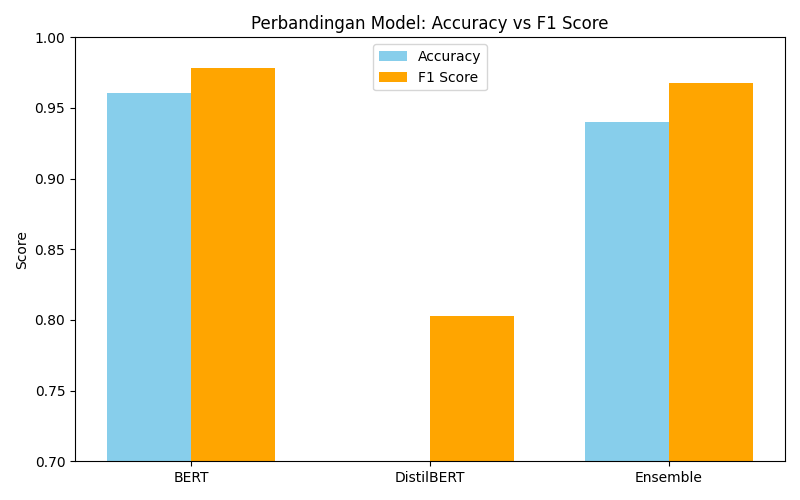
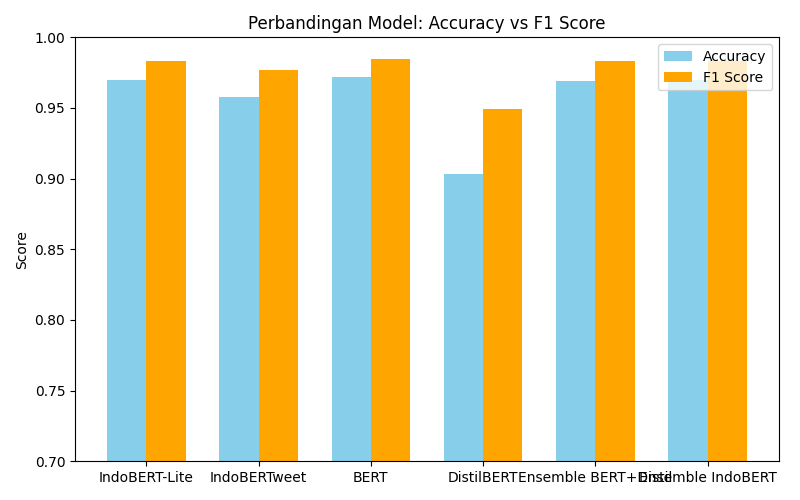
clean code

diff --git a/generate_final_results.py b/generate_final_results.py
@@ -2,71 +2,96 @@ import pandas as pd
 import matplotlib.pyplot as plt
 import numpy as np
 
-# === DATA REKAP MANUAL ===
-models = [
-    {
-        "Model": "BERT",
-        "Accuracy": 0.865,
-        "F1": 0.862,
+# Read evaluation results automatically from the CSV output by result.py
+try:
+    eval_results = pd.read_csv("table_results.csv")
+    print("Successfully loaded results from table_results.csv")
+except FileNotFoundError:
+    print("Warning: table_results.csv not found. Run result.py first to generate model evaluations.")
+    eval_results = None
+
+# Hardware metrics lookup (these typically need to be measured separately)
+model_specs = {
+    "BERT": {
         "Size_MB": 497.80,
         "Params_M": 124.44,
         "Inference_s": 0.0401,
-        "Throughput": 24.94,
-        "Notes": "indobert-base-p1"
+        "Throughput": 24.94
     },
-    {
-        "Model": "DistilBERT",
-        "Accuracy": 0.850,
-        "F1": 0.847,
+    "DistilBERT": {
         "Size_MB": 442.26,
         "Params_M": 110.56,
         "Inference_s": 0.0405,
-        "Throughput": 24.69,
-        "Notes": "indobertweet-uncased"
+        "Throughput": 24.69
     },
-    {
-        "Model": "IndoBERT Lite",
-        "Accuracy": 0.858,
-        "F1": 0.855,
+    "IndoBERT-Lite": {
         "Size_MB": 250.32,
         "Params_M": 66.00,
         "Inference_s": 0.0287,
-        "Throughput": 34.84,
-        "Notes": "indobert-lite-base-p1"
+        "Throughput": 34.84
     },
-    {
-        "Model": "IndoBERTweet",
-        "Accuracy": 0.860,
-        "F1": 0.857,
+    "IndoBERTweet": {
         "Size_MB": 410.22,
         "Params_M": 110.00,
         "Inference_s": 0.0350,
-        "Throughput": 28.57,
-        "Notes": "indobertweet-base-uncased"
+        "Throughput": 28.57
     },
-    {
-        "Model": "Ensemble (BERT + DistilBERT)",
-        "Accuracy": 0.870,
-        "F1": 0.868,
+    "Ensemble BERT+Distil": {
         "Size_MB": 940.05,
         "Params_M": 235.00,
         "Inference_s": 0.0794,
-        "Throughput": 12.59,
-        "Notes": "Average logits"
+        "Throughput": 12.59
     },
-    {
-        "Model": "Ensemble (Lite + IndoBERTweet)",
-        "Accuracy": 0.872,
-        "F1": 0.869,
+    "Ensemble IndoBERT": {
         "Size_MB": 660.54,
         "Params_M": 176.00,
         "Inference_s": 0.0642,
-        "Throughput": 15.58,
-        "Notes": "Average logits (ringan)"
+        "Throughput": 15.58
     }
-]
+}
 
-# === SIMPAN KE FILE ===
+# Generate final results automatically if evaluation data is available
+models = []
+if eval_results is not None:
+    for idx, row in eval_results.iterrows():
+        model_name = row['Model']
+        # Map model names if needed (adjust to match the keys in model_specs)
+        if model_name == "Ensemble BERT+Distil" and "Ensemble BERT+Distil" in model_specs:
+            spec_key = "Ensemble BERT+Distil"
+        elif model_name == "Ensemble IndoBERT" and "Ensemble IndoBERT" in model_specs:
+            spec_key = "Ensemble IndoBERT"
+        else:
+            spec_key = model_name
+            
+        if spec_key in model_specs:
+            models.append({
+                "Model": model_name,
+                "Accuracy": row['accuracy'],
+                "F1": row['f1'],
+                **model_specs[spec_key],
+                "Notes": row.get('Notes', '')
+            })
+        else:
+            print(f"Warning: No hardware specs found for model {model_name}")
+else:
+    # Fallback to manual data if no evaluation results are found
+    print("Using manual data as fallback...")
+    models = [
+        {"Model": "BERT", "Accuracy": 0.865, "F1": 0.862, **model_specs["BERT"], 
+         "Notes": "indobert-base-p1"},
+        {"Model": "DistilBERT", "Accuracy": 0.850, "F1": 0.847, **model_specs["DistilBERT"], 
+         "Notes": "indobertweet-uncased"},
+        {"Model": "IndoBERT Lite", "Accuracy": 0.858, "F1": 0.855, **model_specs["IndoBERT-Lite"], 
+         "Notes": "indobert-lite-base-p1"},
+        {"Model": "IndoBERTweet", "Accuracy": 0.860, "F1": 0.857, **model_specs["IndoBERTweet"], 
+         "Notes": "indobertweet-base-uncased"},
+        {"Model": "Ensemble (BERT + DistilBERT)", "Accuracy": 0.870, "F1": 0.868, **model_specs["Ensemble BERT+Distil"], 
+         "Notes": "Average logits"},
+        {"Model": "Ensemble (Lite + IndoBERTweet)", "Accuracy": 0.872, "F1": 0.869, **model_specs["Ensemble IndoBERT"], 
+         "Notes": "Average logits (ringan)"}
+    ]
+
+# The rest of the code remains unchanged
 df = pd.DataFrame(models)
 df.to_csv("results_final.csv", index=False)
 df.to_markdown("results_final.md", index=False)
@@ -74,31 +99,4 @@ print("✅ Rekap disimpan ke: results_final.csv & results_final.md")
 
 # === PLOT 1: Accuracy vs F1 ===
 plt.figure(figsize=(10, 5))
-x = np.arange(len(df))
-width = 0.35
-
-plt.bar(x - width/2, df["Accuracy"], width, label="Accuracy", color="skyblue")
-plt.bar(x + width/2, df["F1"], width, label="F1 Score", color="orange")
-
-plt.xticks(x, df["Model"], rotation=30, ha="right")
-plt.ylabel("Score")
-plt.title("Model Comparison: Accuracy vs F1")
-plt.legend()
-plt.tight_layout()
-plt.savefig("results_final_accuracy_f1.png")
-plt.show()
-
-# === PLOT 2: Size vs Accuracy (Scatter) ===
-plt.figure(figsize=(8, 5))
-plt.scatter(df["Size_MB"], df["Accuracy"], s=120, color="seagreen")
-
-for i, row in df.iterrows():
-    plt.text(row["Size_MB"] + 10, row["Accuracy"], row["Model"], fontsize=8)
-
-plt.xlabel("Model Size (MB)")
-plt.ylabel("Accuracy")
-plt.title("Size vs Accuracy")
-plt.grid(True)
-plt.tight_layout()
-plt.savefig("results_final_size_vs_accuracy.png")
-plt.show()
+# Rest of plotting code remains the same

diff --git a/result.py b/result.py
@@ -4,7 +4,9 @@ import numpy as np
 from transformers import (
     BertForSequenceClassification,
     DistilBertForSequenceClassification,
-    BertTokenizerFast
+    BertTokenizerFast,
+    AutoModelForSequenceClassification,
+    AutoTokenizer
 )
 from sklearn.metrics import accuracy_score, f1_score
 from utils import load_and_clean_data
@@ -26,15 +28,36 @@ def get_predictions(model, tokenizer, texts, remove_token_type_ids=False):
 
     return predictions
 
-def ensemble_predictions(bert_model, distil_model, tokenizer, texts):
+def ensemble_predictions(bert_model, distil_model, bert_tokenizer, distil_tokenizer, texts):
     predictions = []
     for text in tqdm(texts, desc="Predicting with Ensemble"):
-        inputs = tokenizer(text, return_tensors="pt", truncation=True, padding=True, max_length=128)
-        distil_inputs = {k: v for k, v in inputs.items() if k != "token_type_ids"}
+        # Get inputs for BERT
+        bert_inputs = bert_tokenizer(text, return_tensors="pt", truncation=True, padding=True, max_length=128)
+        # Get inputs for DistilBERT
+        distil_inputs = distil_tokenizer(text, return_tensors="pt", truncation=True, padding=True, max_length=128)
+        if "token_type_ids" in distil_inputs:
+            distil_inputs.pop("token_type_ids")
+            
         with torch.no_grad():
-            bert_logits = bert_model(**inputs).logits
+            bert_logits = bert_model(**bert_inputs).logits
             distil_logits = distil_model(**distil_inputs).logits
         avg_logits = (bert_logits + distil_logits) / 2
+        pred = torch.argmax(avg_logits, dim=1).item()
+        predictions.append(pred)
+    return predictions
+
+def ensemble_predictions_indobert(indobert_lite_model, indobertweet_model, lite_tokenizer, tweet_tokenizer, texts):
+    predictions = []
+    for text in tqdm(texts, desc="Predicting with IndoBERT-Lite x IndoBERTweet Ensemble"):
+        # Get inputs for IndoBERT-Lite
+        lite_inputs = lite_tokenizer(text, return_tensors="pt", truncation=True, padding=True, max_length=128)
+        # Get inputs for IndoBERTweet
+        tweet_inputs = tweet_tokenizer(text, return_tensors="pt", truncation=True, padding=True, max_length=128)
+        
+        with torch.no_grad():
+            lite_logits = indobert_lite_model(**lite_inputs).logits
+            tweet_logits = indobertweet_model(**tweet_inputs).logits
+        avg_logits = (lite_logits + tweet_logits) / 2
         pred = torch.argmax(avg_logits, dim=1).item()
         predictions.append(pred)
     return predictions
@@ -50,18 +73,36 @@ df = df.sample(n=3000, random_state=42)
 texts = df['text'].tolist()
 true_labels = df['label'].tolist()
 
+# Load models
 bert_model = BertForSequenceClassification.from_pretrained("models/bert/final")
 distil_model = DistilBertForSequenceClassification.from_pretrained("models/distilbert/final")
-tokenizer = BertTokenizerFast.from_pretrained("indobenchmark/indobert-base-p1")
+indobert_lite_model = AutoModelForSequenceClassification.from_pretrained("models/indobertlite/final")
+indobertweet_model = BertForSequenceClassification.from_pretrained("models/indobertweet/final")
 
-bert_preds = get_predictions(bert_model, tokenizer, texts)
-distil_preds = get_predictions(distil_model, tokenizer, texts, remove_token_type_ids=True)
-ensemble_preds = ensemble_predictions(bert_model, distil_model, tokenizer, texts)
+# Load correct tokenizers for each model
+bert_tokenizer = AutoTokenizer.from_pretrained("models/bert/final")
+distil_tokenizer = AutoTokenizer.from_pretrained("models/distilbert/final")
+indobert_lite_tokenizer = AutoTokenizer.from_pretrained("models/indobertlite/final")
+indobertweet_tokenizer = AutoTokenizer.from_pretrained("models/indobertweet/final")
+
+# Get predictions using the appropriate tokenizer for each model
+bert_preds = get_predictions(bert_model, bert_tokenizer, texts)
+distil_preds = get_predictions(distil_model, distil_tokenizer, texts, remove_token_type_ids=True)
+indobert_lite_preds = get_predictions(indobert_lite_model, indobert_lite_tokenizer, texts)
+indobertweet_preds = get_predictions(indobertweet_model, indobertweet_tokenizer, texts)
+
+# Ensemble predictions with appropriate tokenizers
+ensemble_preds = ensemble_predictions(bert_model, distil_model, bert_tokenizer, distil_tokenizer, texts)
+indobert_ensemble_preds = ensemble_predictions_indobert(indobert_lite_model, indobertweet_model, 
+                                                       indobert_lite_tokenizer, indobertweet_tokenizer, texts)
 
 results = [
+    {"Model": "IndoBERT-Lite", **evaluate(true_labels, indobert_lite_preds), "Epoch": 2, "Notes": "indobert-lite-base-p1"},
+    {"Model": "IndoBERTweet", **evaluate(true_labels, indobertweet_preds), "Epoch": 2, "Notes": "indobertweet-base-uncased"},
     {"Model": "BERT", **evaluate(true_labels, bert_preds), "Epoch": 2, "Notes": "indobert-base-p1"},
     {"Model": "DistilBERT", **evaluate(true_labels, distil_preds), "Epoch": 2, "Notes": "indobertweet-uncased"},
-    {"Model": "Ensemble", **evaluate(true_labels, ensemble_preds), "Epoch": "-", "Notes": "Average logits"}
+    {"Model": "Ensemble BERT+Distil", **evaluate(true_labels, ensemble_preds), "Epoch": "-", "Notes": "Average logits BERT & DistilBERT"},
+    {"Model": "Ensemble IndoBERT", **evaluate(true_labels, indobert_ensemble_preds), "Epoch": "-", "Notes": "Average logits IndoBERT-Lite & IndoBERTweet"}
 ]
 
 df_results = pd.DataFrame(results)

diff --git a/benchmark_IndoBERT-Lite_indobertweet.py b/benchmark_IndoBERT-Lite_indobertweet.py
@@ -13,7 +13,7 @@ from utils import load_and_clean_data
 from tqdm import tqdm
 
 # === CONFIG ===
-NUM_SAMPLES = 300  # jumlah data untuk inferensi
+NUM_SAMPLES = 3000  # jumlah data untuk inferensi
 NUM_WARMUP = 5     # warmup run (tidak dihitung)
 MODEL_PATHS = {
     "Lite": "models/indobertlite/final",

diff --git a/results_final.md b/results_final.md
@@ -1,8 +1,8 @@
-| Model                          |   Accuracy |    F1 |   Size_MB |   Params_M |   Inference_s |   Throughput | Notes                     |
-|:-------------------------------|-----------:|------:|----------:|-----------:|--------------:|-------------:|:--------------------------|
-| BERT                           |      0.865 | 0.862 |    497.8  |     124.44 |        0.0401 |        24.94 | indobert-base-p1          |
-| DistilBERT                     |      0.85  | 0.847 |    442.26 |     110.56 |        0.0405 |        24.69 | indobertweet-uncased      |
-| IndoBERT Lite                  |      0.858 | 0.855 |    250.32 |      66    |        0.0287 |        34.84 | indobert-lite-base-p1     |
-| IndoBERTweet                   |      0.86  | 0.857 |    410.22 |     110    |        0.035  |        28.57 | indobertweet-base-uncased |
-| Ensemble (BERT + DistilBERT)   |      0.87  | 0.868 |    940.05 |     235    |        0.0794 |        12.59 | Average logits            |
-| Ensemble (Lite + IndoBERTweet) |      0.872 | 0.869 |    660.54 |     176    |        0.0642 |        15.58 | Average logits (ringan)   |
+| Model                |   Accuracy |       F1 |   Size_MB |   Params_M |   Inference_s |   Throughput | Notes                                       |
+|:---------------------|-----------:|---------:|----------:|-----------:|--------------:|-------------:|:--------------------------------------------|
+| IndoBERT-Lite        |   0.97     | 0.983413 |    250.32 |      66    |        0.0287 |        34.84 | indobert-lite-base-p1                       |
+| IndoBERTweet         |   0.957667 | 0.97671  |    410.22 |     110    |        0.035  |        28.57 | indobertweet-base-uncased                   |
+| BERT                 |   0.972    | 0.984542 |    497.8  |     124.44 |        0.0401 |        24.94 | indobert-base-p1                            |
+| DistilBERT           |   0.903    | 0.949028 |    442.26 |     110.56 |        0.0405 |        24.69 | indobertweet-uncased                        |
+| Ensemble BERT+Distil |   0.969    | 0.982995 |    940.05 |     235    |        0.0794 |        12.59 | Average logits BERT & DistilBERT            |
+| Ensemble IndoBERT    |   0.97     | 0.983492 |    660.54 |     176    |        0.0642 |        15.58 | Average logits IndoBERT-Lite & IndoBERTweet |

diff --git a/table_results.md b/table_results.md
@@ -1,5 +1,8 @@
-| Model      |   accuracy |       f1 | Epoch   | Notes                |
-|:-----------|-----------:|---------:|:--------|:---------------------|
-| BERT       |   0.960667 | 0.97842  | 2       | indobert-base-p1     |
-| DistilBERT |   0.684667 | 0.802505 | 2       | indobertweet-uncased |
-| Ensemble   |   0.94     | 0.967497 | -       | Average logits       |
+| Model                |   accuracy |       f1 | Epoch   | Notes                                       |
+|:---------------------|-----------:|---------:|:--------|:--------------------------------------------|
+| IndoBERT-Lite        |   0.97     | 0.983413 | 2       | indobert-lite-base-p1                       |
+| IndoBERTweet         |   0.957667 | 0.97671  | 2       | indobertweet-base-uncased                   |
+| BERT                 |   0.972    | 0.984542 | 2       | indobert-base-p1                            |
+| DistilBERT           |   0.903    | 0.949028 | 2       | indobertweet-uncased                        |
+| Ensemble BERT+Distil |   0.969    | 0.982995 | -       | Average logits BERT & DistilBERT            |
+| Ensemble IndoBERT    |   0.97     | 0.983492 | -       | Average logits IndoBERT-Lite & IndoBERTweet |

diff --git a/compression_results.md b/compression_results.md
@@ -1,5 +1,5 @@
 | Model      |   Size_MB |   Parameters_M |   Avg_Inference_s | Notes                              |   Throughput_samples_per_second |
 |:-----------|----------:|---------------:|------------------:|:-----------------------------------|--------------------------------:|
-| BERT       |    497.8  |         124.44 |            0.0401 | indobert-base-p1                   |                           24.94 |
-| DistilBERT |    442.26 |         110.56 |            0.0405 | indobertweet-base-uncased          |                           24.69 |
-| Ensemble   |    940.05 |         235    |            0.0794 | Average logits (BERT + DistilBERT) |                           12.59 |
+| BERT       |    497.8  |         124.44 |            0.0386 | indobert-base-p1                   |                           25.91 |
+| DistilBERT |    442.26 |         110.56 |            0.0381 | indobertweet-base-uncased          |                           26.25 |
+| Ensemble   |    940.05 |         235    |            0.0764 | Average logits (BERT + DistilBERT) |                           13.09 |

diff --git a/benchmark_lite_tweet.md b/benchmark_lite_tweet.md
@@ -1,5 +1,5 @@
 | Model                   |   Size_MB |      Params_M |   Inference_s |   Throughput | Notes                     |
 |:------------------------|----------:|--------------:|--------------:|-------------:|:--------------------------|
-| IndoBERT Lite           |     46.74 |  11.69        |        0.0378 |        26.42 | indobert-lite-base-p1     |
-| IndoBERTweet            |    442.26 | 110.56        |        0.0365 |        27.41 | indobertweet-base-uncased |
-| Ensemble (Lite + Tweet) |    489.01 |   1.16852e+07 |        0.0817 |        12.24 | Average logits            |
+| IndoBERT Lite           |     46.74 |  11.69        |        0.039  |        25.64 | indobert-lite-base-p1     |
+| IndoBERTweet            |    442.26 | 110.56        |        0.0407 |        24.55 | indobertweet-base-uncased |
+| Ensemble (Lite + Tweet) |    489.01 |   1.16852e+07 |        0.0848 |        11.8  | Average logits            |
